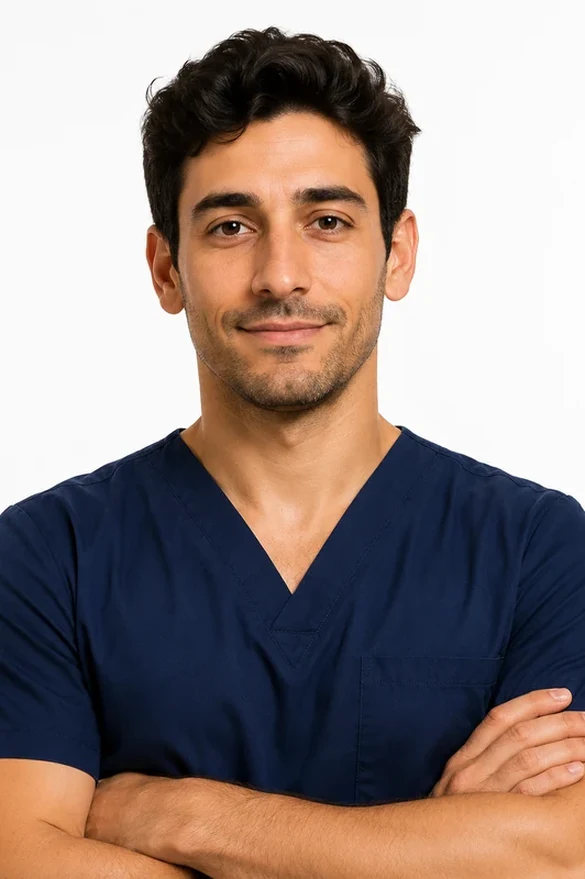
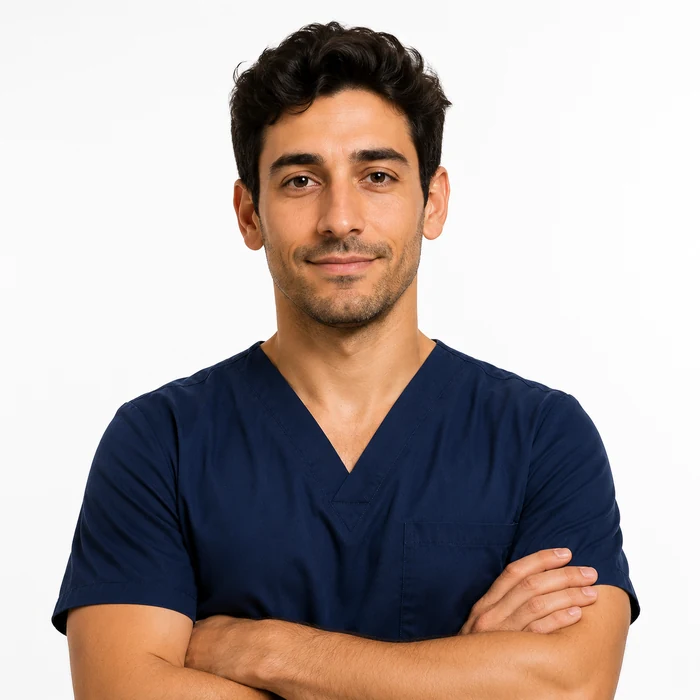
2

diff --git a/index.html b/index.html
@@ -2647,7 +2647,7 @@
 
       <div class="author-content">
         <div class="author-image">
-          <img src="./Img-Leandro.webp" alt="Leandro Moretti - Farmacista e Fondatore di Studio Facile" width="266" height="400" loading="lazy" decoding="async">
+          <img src="./Img-Leandro.webp" alt="Leandro Moretti - Farmacista e Fondatore di Studio Facile" width="300" height="300" loading="lazy" decoding="async">
         </div>
         <div class="author-bio">
           <h3>Leandro Moretti</h3>

diff --git a/_ottimizza.py b/_ottimizza.py
@@ -18,7 +18,7 @@ ORIG = os.path.join(BASE, "_originali")
 
 # file -> larghezza mostrata sul sito (misurata nel browser)
 MOSTRATO = {
-    "Img-Leandro.webp": 266,
+    "Img-Leandro.webp": 300,
     "amostras/p57-warfarin.webp": 319,
     "amostras/p37-recettori.webp": 319,
     "amostras/p47-ipersensibilita.webp": 319,
